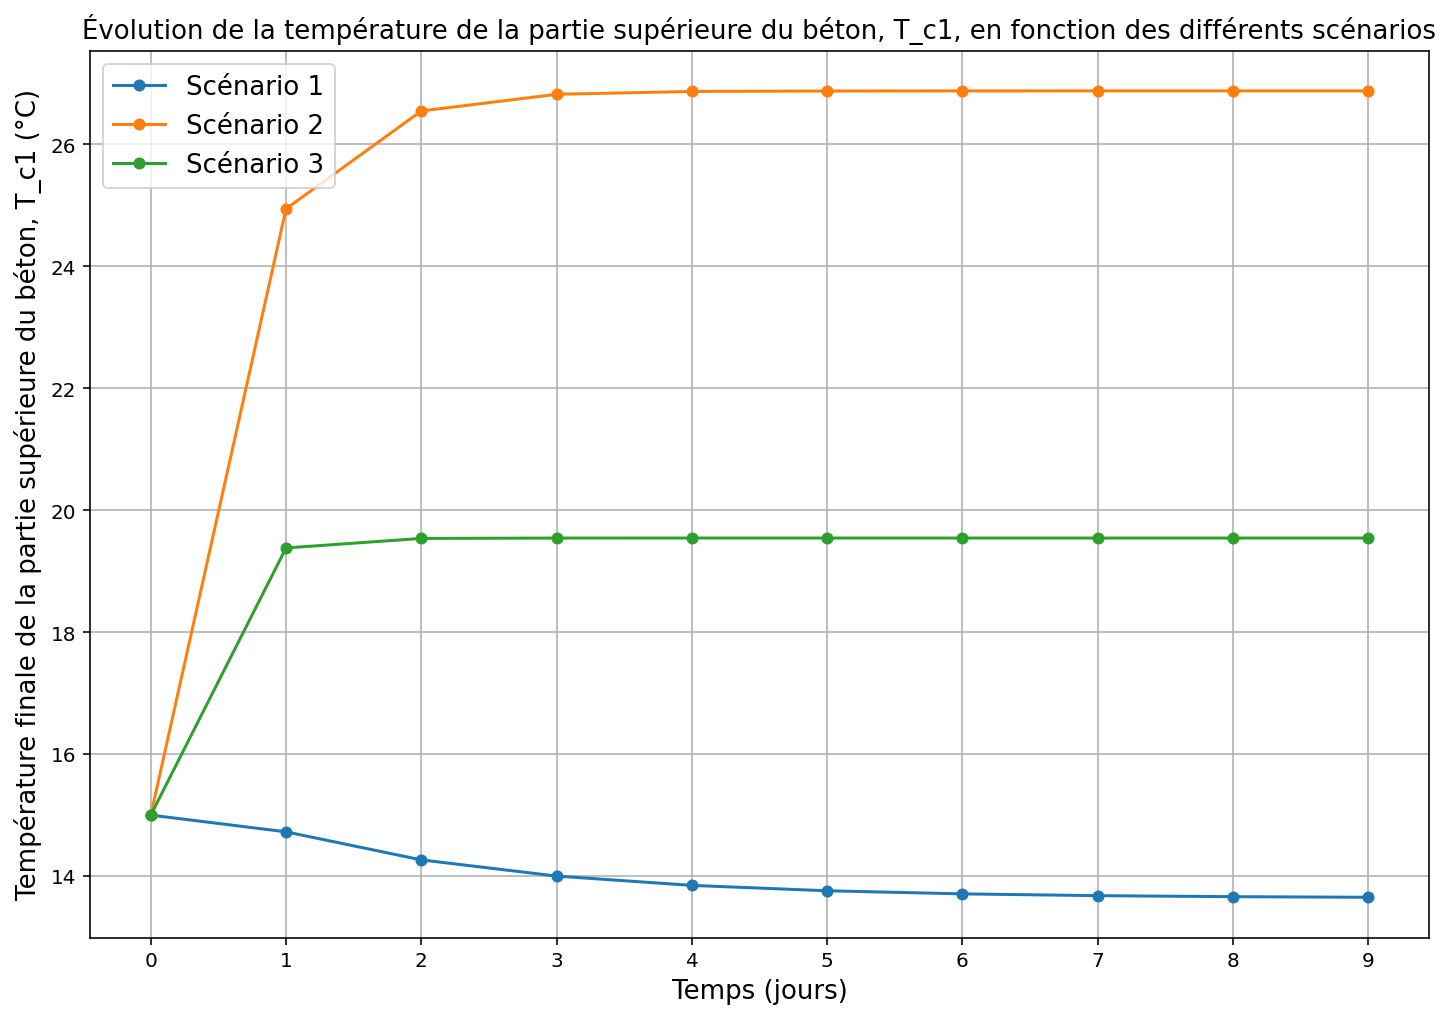
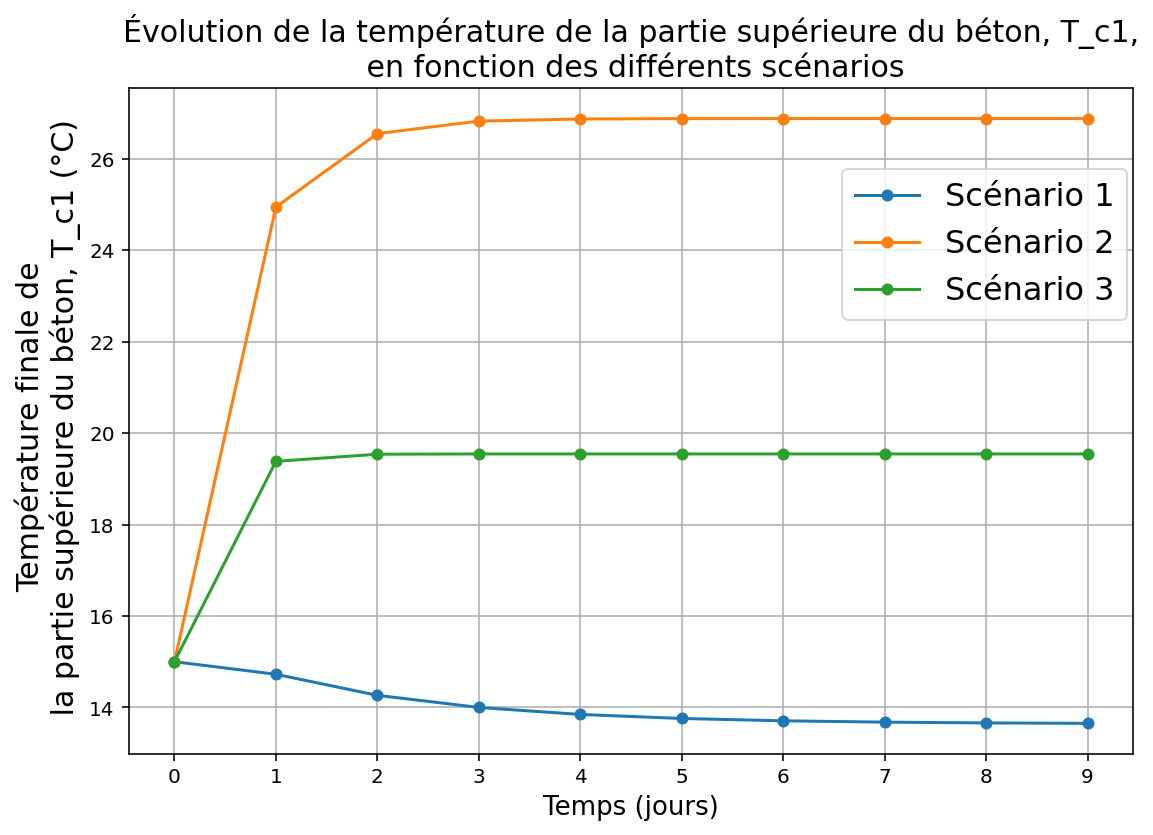
fix: scenario plot

diff --git a/SimTABS.py b/SimTABS.py
@@ -283,13 +283,13 @@ T_f1 = T_f
 for j in range(len(T0)): #On affiche chaque T[:]
     
     # Scénario 1 (voir question 5) ##############################################
-    plt.figure(figsize=(12, 8))
+    plt.figure(figsize=(9, 6))
     plt.xticks(np.linspace(t_f1[0], t_f1[-1], 10))  # Divise la grille en 8 parts verticales égales
     plt.plot(t_f1, T_f1[:, j], 'o-', markersize=5, label="Scénario 1")
     plt.xlabel("Temps (jours)",fontsize=13)
-    plt.ylabel(f"Température finale de {nom_T[j]} (°C)",fontsize=13)
+    plt.ylabel(f"Température finale de \n {nom_T[j]} (°C)",fontsize=15)
     plt.grid(True)
-    plt.title(f"Évolution de la température de {nom_T[j]}, en fonction des différents scénarios", fontsize=13)
+    plt.title(f"Évolution de la température de {nom_T[j]},\n en fonction des différents scénarios", fontsize=15)
     
     # Scnéario 2 ##############################################################
     
@@ -481,7 +481,7 @@ for j in range(len(T0)): #On affiche chaque T[:]
     plt.plot(t_f3, T_f3[:, j], 'o-',  markersize=5, label="Scénario 3")
     
     # On affiche les graphes
-    plt.legend(loc='upper left', fontsize=13)
+    plt.legend(loc='upper left', bbox_to_anchor=(100/plt.gcf().dpi, 130/plt.gcf().dpi), fontsize=16)
     plt.show()
 
 
